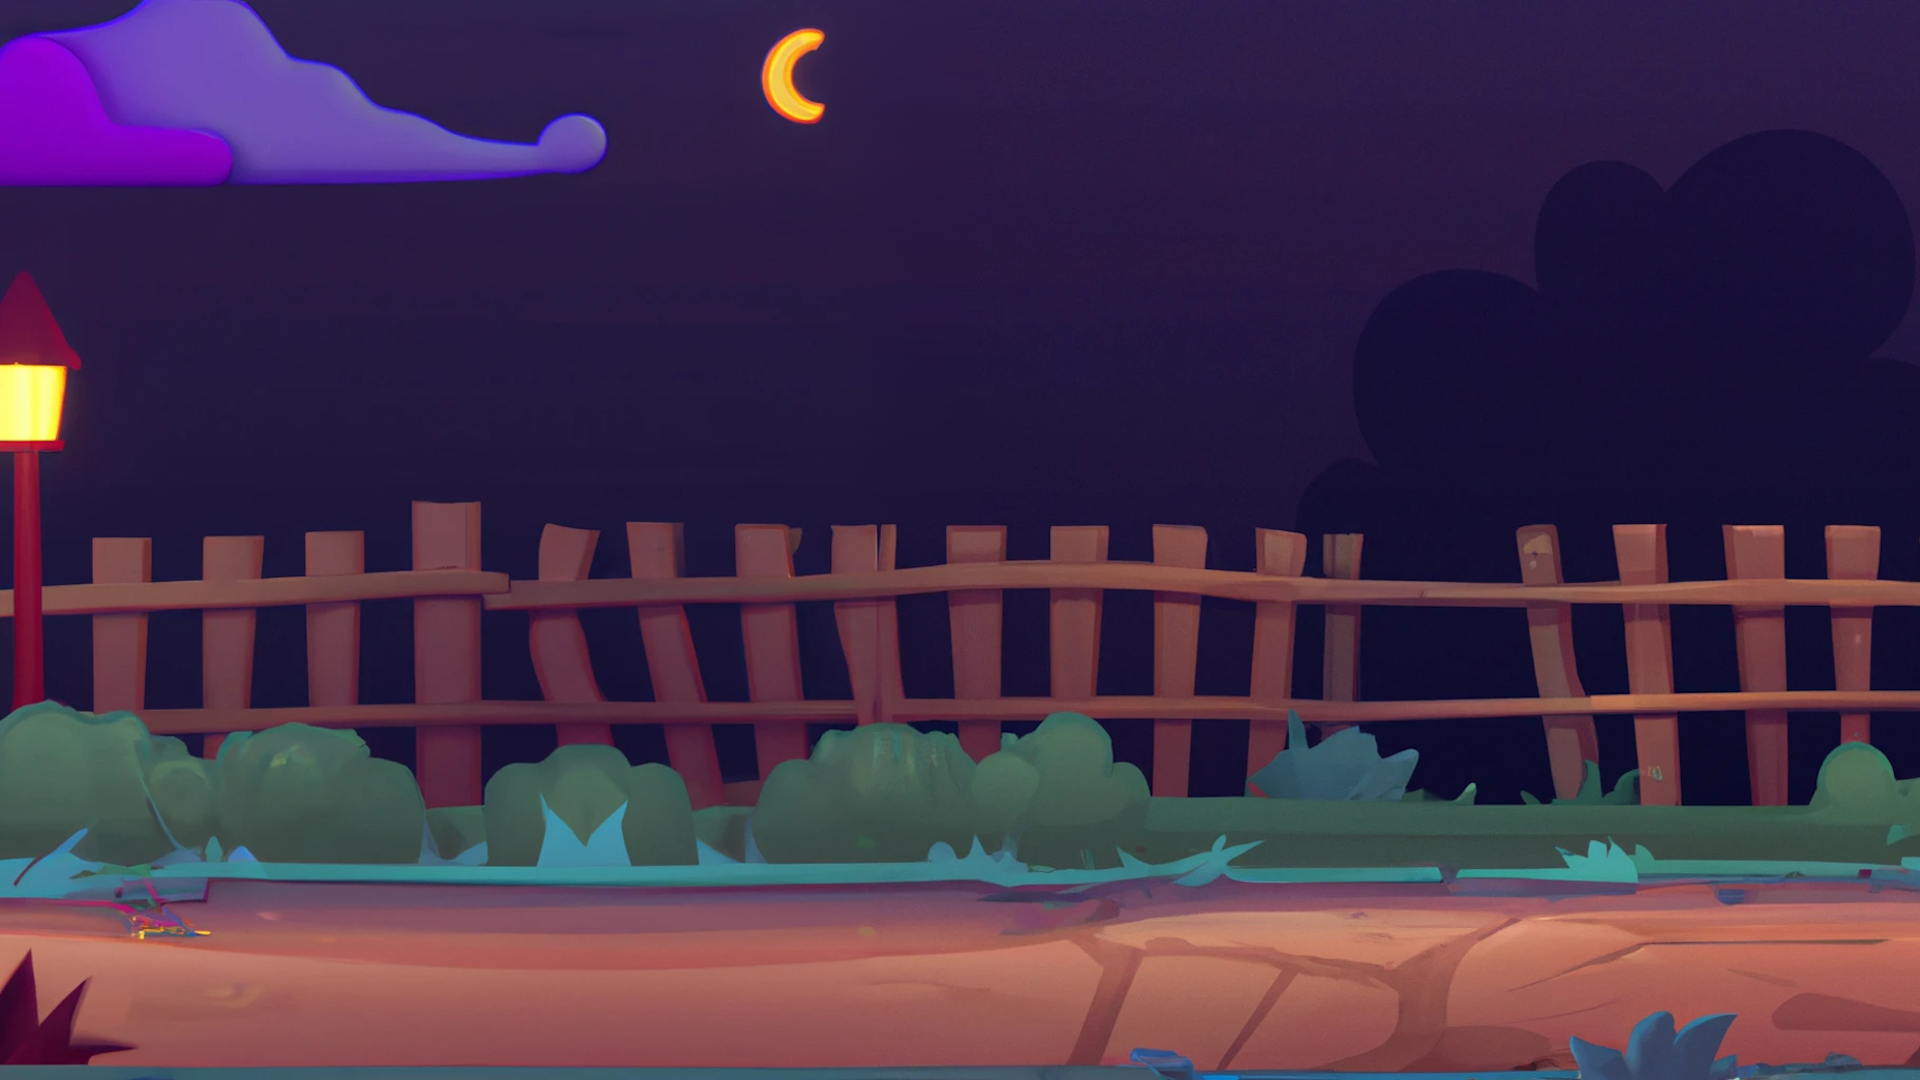
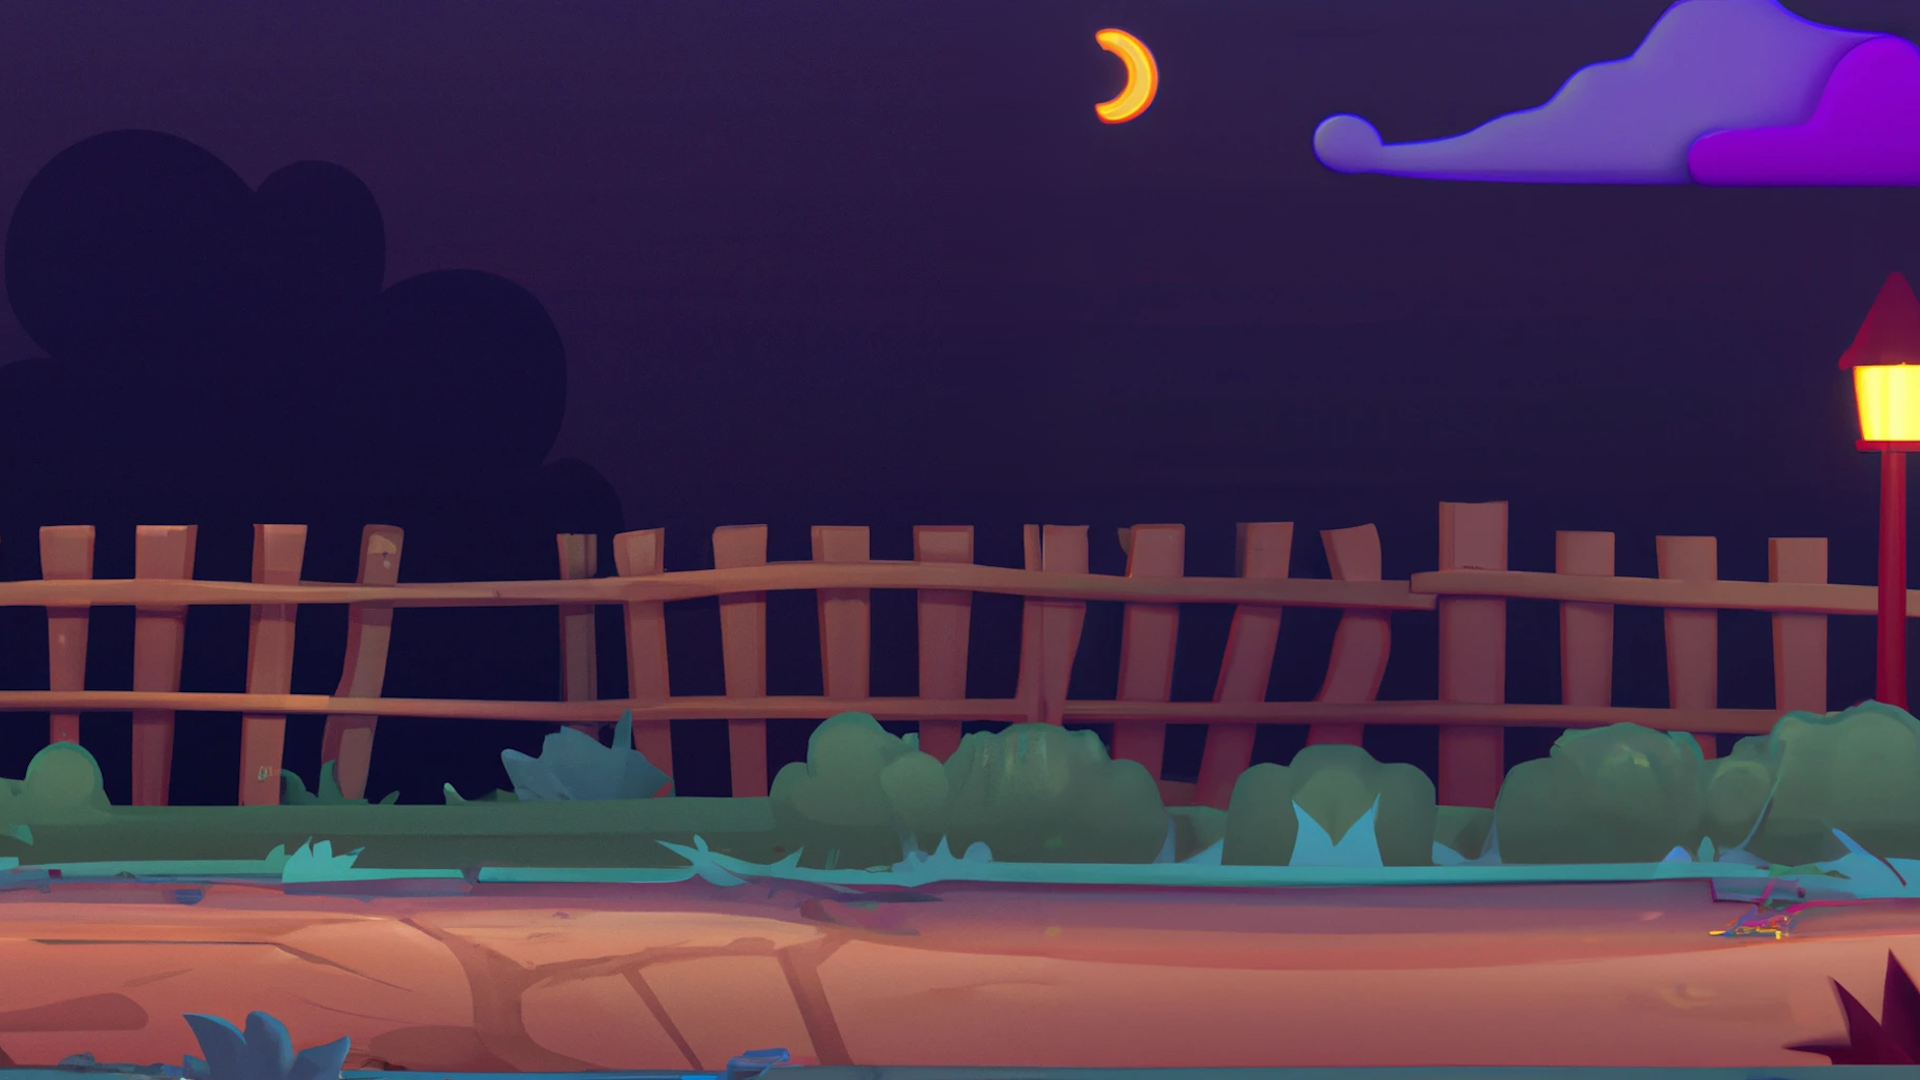
Electrical panel and normals tests

diff --git a/src/GameObjects/characters/Tom/Tom.ts b/src/GameObjects/characters/Tom/Tom.ts
@@ -46,48 +46,52 @@ export class Tom extends Phaser.GameObjects.Sprite {
     }
 
     /**
-     * Walk through X-axis to "moveX" pixels. Speed calculated from distance
+     * Walk through X-axis to "moveX" pixels. Time will be calculated from distance
      *
      * @param moveX
      */
-    public walk(moveX: number) {
-        const y = this.y;
+    public walk(moveX: number): Promise<void> {
+        return new Promise((resolve) => {
+            const y = this.y;
 
-        const walkingTween = this.scene.tweens.add({
-            targets: this,
-            y: {
-                from: y + 5,
-                to: y - 5
-            },
-            yoyo: true,
-            loop: -1,
-            delay: 150,
-            duration: 200,
-            frameRate: 30,
-        });
+            const walkingTween = this.scene.tweens.add({
+                targets: this,
+                y: {
+                    from: y + 5,
+                    to: y - 5
+                },
+                yoyo: true,
+                loop: -1,
+                delay: 150,
+                duration: 200,
+                frameRate: 30,
+            });
 
-        const speed = 200;
+            const speed = 200;
 
-        this.scene.tweens.add({
-            targets: this,
-            x: {
-                from: this.x,
-                to: moveX
-            },
-            delay: 150,
-            duration: (moveX + Math.abs(this.x)) / speed * 1000,
-            onComplete: () => {
-                this.anims.stop();
-                this.anims.play('tom-walking-end');
-                walkingTween.stop();
-            }
-        });
+            this.scene.tweens.add({
+                targets: this,
+                x: {
+                    from: this.x,
+                    to: moveX
+                },
+                delay: 150,
+                duration: (moveX + Math.abs(this.x)) / speed * 1000,
+                onComplete: () => {
+                    this.anims.stop();
+                    this.anims.play('tom-walking-end');
+                    walkingTween.stop();
 
-        this.play('tom-walk-start')
-            .once(Phaser.Animations.Events.ANIMATION_COMPLETE, () => {
-                this.play({
-                    key: 'tom-walking',
-                    repeat: -1,
+                    resolve();
+                }
+            });
+
+            this.play('tom-walk-start')
+                .once(Phaser.Animations.Events.ANIMATION_COMPLETE, () => {
+                    this.play({
+                        key: 'tom-walking',
+                        repeat: -1,
+                    });
                 });
             });
     }

diff --git a/src/scenes/GameObjectsScene.ts b/src/scenes/GameObjectsScene.ts
@@ -13,6 +13,10 @@ export class GameObjectsScene extends BaseGameScene {
         super("GameObjects.test");
     }
 
+    public preload() {
+        this.load.image('electrical-panel', 'assets/levels/test-level/electricalpanel.jpg');
+    }
+
     public create() {
         super.create();
         this.bootstrap();
@@ -25,15 +29,40 @@ export class GameObjectsScene extends BaseGameScene {
         gear6_2.tint = 0xFF0000;
 
         const tom = new Tom(this, -200, 800);
-        setTimeout(() => {
-            tom.walk(200);
+        tom.setPipeline(Phaser.Renderer.WebGL.Pipelines.LIGHT_PIPELINE);
+        setTimeout(async () => {
+            await tom.walk(200);
+            const { light } = this.lights.getLights(this.cameras.default)[0] as any;
+            light.setIntensity(0.0001);
+            this.lights.setAmbientColor(0x666666);
+            const newLight = this.lights.addLight(tom.x, tom.y - 50)
+                .setIntensity(.7)
+                .setRadius(400)
+
+            setTimeout(() => {
+                const { canvasWidth, canvasHeight } = this.getCanvasSize();
+                const electricalPanel = this.add.image(canvasWidth / 2, canvasHeight / 2, 'electrical-panel');
+                setTimeout(() => {
+                    electricalPanel.destroy();
+                    this.lights.removeLight(newLight);
+                    this.lights.setAmbientColor(0xAAAAAA);
+                    light.setIntensity(2);
+                    tom.walk(1900);
+                }, 2000);
+            }, 1500);
         }, 1000);
     }
 
     protected bootstrap() {
-        const bgImage = this.add.image(0, 0, 'bg')
+        const bgImage = this.add.image(-250, 0, 'bg')
             .setDepth(-1)
-            .setOrigin(0);
+            .setOrigin(0)
+            .setPipeline(Phaser.Renderer.WebGL.Pipelines.LIGHT_PIPELINE);
+
+        this.lights.enable()
+            .addLight(1920 - 250 - 50, 400, 2000, undefined, 2);
+
+        this.lights.setAmbientColor(0xAAAAAA);
 
         const scale = Math.max(
             this.sys.canvas.width / bgImage.displayWidth,

diff --git a/src/GameObjects/ToolsDashboard/ToolsDashboard.ts b/src/GameObjects/ToolsDashboard/ToolsDashboard.ts
@@ -4,6 +4,7 @@ import RoundRectangle from "phaser3-rex-plugins/plugins/roundrectangle";
 import { AbstractDashboardPresenter } from "./dashboardPresenters/AbstractDashboardPresenter";
 import { Sizer } from "phaser3-rex-plugins/templates/ui/ui-components";
 import { DASHBOARD_PRESENTER_HIDE, DASHBOARD_PRESENTER_SHOW } from "./dashboardPresenters/events";
+import { DEPTH } from "@src/constants/depth";
 
 /**
  * Tools dashboard container
@@ -32,8 +33,8 @@ export class ToolsDashboard {
         const { canvasHeight, canvasWidth } = scene.getCanvasSize();
 
         const background = new RoundRectangle(scene);
-        background.fillColor = 0x993333;
-        background.alpha = 0.3;
+        background.fillColor = 0x333333;
+        background.alpha = 1;
 
         scene.add.existing(background);
 
@@ -65,7 +66,7 @@ export class ToolsDashboard {
             panel: {
                 child: this.sizer
             }
-        }).setOrigin(0);
+        }).setOrigin(0).setDepth(DEPTH.DASHBOARD);
 
         scene.add.existing(this.panel);
     }
@@ -81,7 +82,7 @@ export class ToolsDashboard {
 
         const current = this.scene.rexUI.add.sizer({
             height: ToolsDashboard.ITEM_HEIGHT,
-        }).add(tool);
+        }).add(tool).setDepth(DEPTH.DASHBOARD_ITEM);
 
         tool.on(DASHBOARD_PRESENTER_SHOW, () => {
             current.show();

diff --git a/src/scenes/LoadingScene.ts b/src/scenes/LoadingScene.ts
@@ -29,7 +29,7 @@ export class LoadingScene extends Phaser.Scene {
         this.load.image('flatMetalBlock', 'assets/blocks/metal/flat_block.png');
 
         // BG
-        this.load.image('bg', 'assets/common/bg/bg_Night.png');
+        this.load.image('bg', ['assets/common/bg/bg_Night.png', 'assets/common/bg/bg_Night_n.png']);
 
         // UI
         this.load.image('icon-rotate', 'assets/ui/icons/sync.png');

diff --git a/src/constants/depth.ts b/src/constants/depth.ts
@@ -1,0 +1,6 @@
+
+export enum DEPTH {
+    // Dashboard
+    DASHBOARD = 254,
+    DASHBOARD_ITEM = 255,
+}
